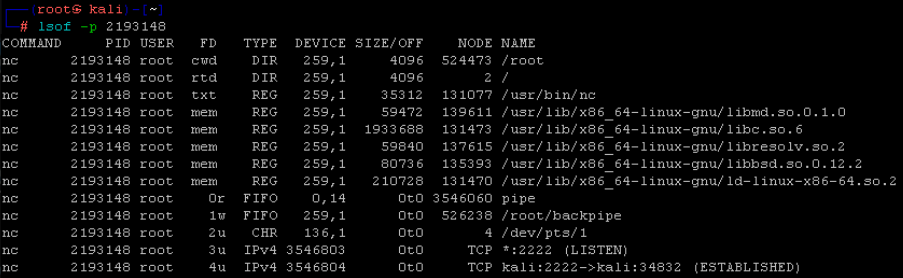
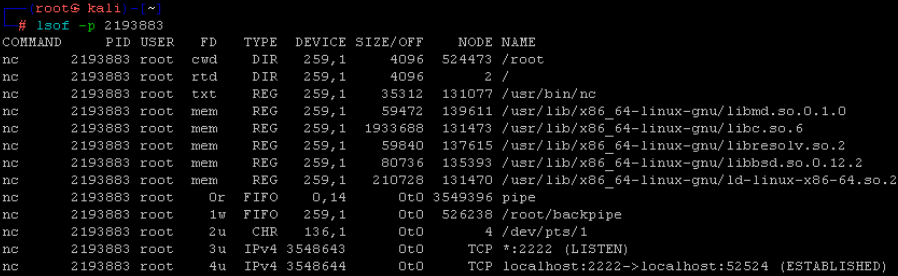
Screenshot Mistake Correction

diff --git a/IntroClassFiles/Tools/IntroClass/LinuxCLI/LinuxCLI.md b/IntroClassFiles/Tools/IntroClass/LinuxCLI/LinuxCLI.md
@@ -90,7 +90,7 @@ Now we will need to know the IP address of our linux system:
 
 Now, let's connect:
 
-<pre> nc 10.10.1.117 2222</pre>
+<pre> nc 127.0.0.1 2222</pre>
 
 Remember!!!  Your IP address will be different!!!!
 
@@ -152,9 +152,9 @@ Remember!!!  Your PID will be different!!!
 
 We can run strings on the exe in this directory.  This is very, very useful as when programs are created there may be usage information, mentions of system libraries and possible code comments.  We use this all the time to attempt to identify what exactly a program is doing.
 
-<pre>strings ./exe</pre>
+<pre>strings ./exe | less</pre>
 
-![](attachments/strings_exeKaliInstance.png)
+![](attachments/strings_exelessKaliInstance.png)
 
 If we scroll down, we can see the actual usage information for netcat.  We pulled it directly out of memory!
 
